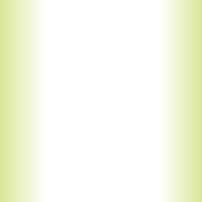
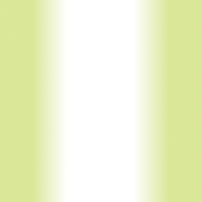
Add carousel finish

diff --git a/src/components/ui/styles/Carousel.module.css b/src/components/ui/styles/Carousel.module.css
@@ -2,7 +2,6 @@
   z-index: 0;
   width: 100%;
   display: flex;
-  animation: carousel 20s linear infinite backwards;
 }
 
 .carousel > div {
@@ -11,20 +10,7 @@
   flex-direction: column;
   align-items: center;
   margin: 4rem;
-}
-
-.cook,
-.chess,
-.construct,
-.arduino,
-.theater,
-.beer,
-.globe,
-.cooks,
-.chesss,
-.constructs,
-.arduinos {
-  animation: vanish 20s linear infinite forwards;
+  animation: carousel 20s linear infinite backwards;
 }
 
 .react_icons {
@@ -38,49 +24,6 @@
   font-size: 1rem;
 }
 
-.cook {
-  animation-delay: 2s;
-}
-
-.chess {
-  animation-delay: 4s;
-}
-
-.construct {
-  animation-delay: 6s;
-}
-
-.arduino {
-  animation-delay: 8s;
-}
-
-.theater {
-  animation-delay: 10s;
-}
-
-.beer {
-  animation-delay: 12s;
-}
-
-.globe {
-  animation-delay: 14s;
-}
-.cooks {
-  animation-delay: 2s;
-}
-
-.chesss {
-  animation-delay: 4s;
-}
-
-.constructs {
-  animation-delay: 6s;
-}
-
-.arduinos {
-  animation-delay: 8s;
-}
-
 @keyframes carousel {
   from {
     position: relative;
@@ -89,23 +32,5 @@
   to {
     position: relative;
     left: -98rem;
-  }
-}
-
-@keyframes vanish {
-  from {
-    opacity: 1;
-  }
-
-  15% {
-    opacity: 0;
-  }
-
-  65% {
-    opacity: 0;
-  }
-
-  to {
-    opacity: 1;
   }
 }

diff --git a/src/pages/About.jsx b/src/pages/About.jsx
@@ -1,6 +1,7 @@
 import classes from "./styles/About.module.css";
 import Card from "../components/ui/Card";
 import Carousel from "../components/ui/Carousel";
+import transp from "../assets/images/transp.png";
 
 function About() {
   return (
@@ -23,6 +24,7 @@ function About() {
         </Card>
       </div>
       <div className={classes.about_icons}>
+        <img src={transp} alt="" />
         <Carousel />
       </div>
     </div>

diff --git a/src/components/ui/Carousel.jsx b/src/components/ui/Carousel.jsx
@@ -12,7 +12,7 @@ function Carousel() {
         <IconContext.Provider value={{ className: classes.react_icons }}>
           <div className={classes.cook}>
             <GiCook />
-            <p>Cucina</p>
+            <p>Cucina 1</p>
           </div>
           <div className={classes.chess}>
             <FaChessPawn />

diff --git a/src/pages/styles/About.module.css b/src/pages/styles/About.module.css
@@ -35,4 +35,15 @@
   display: flex;
   justify-content: center;
   align-items: center;
+  position: relative;
+}
+
+.about_icons img {
+  width: 100%;
+  height: 90%;
+  position: absolute;
+  top: 15px;
+  left: 0;
+  z-index: 100;
+  overflow: hidden;
 }
